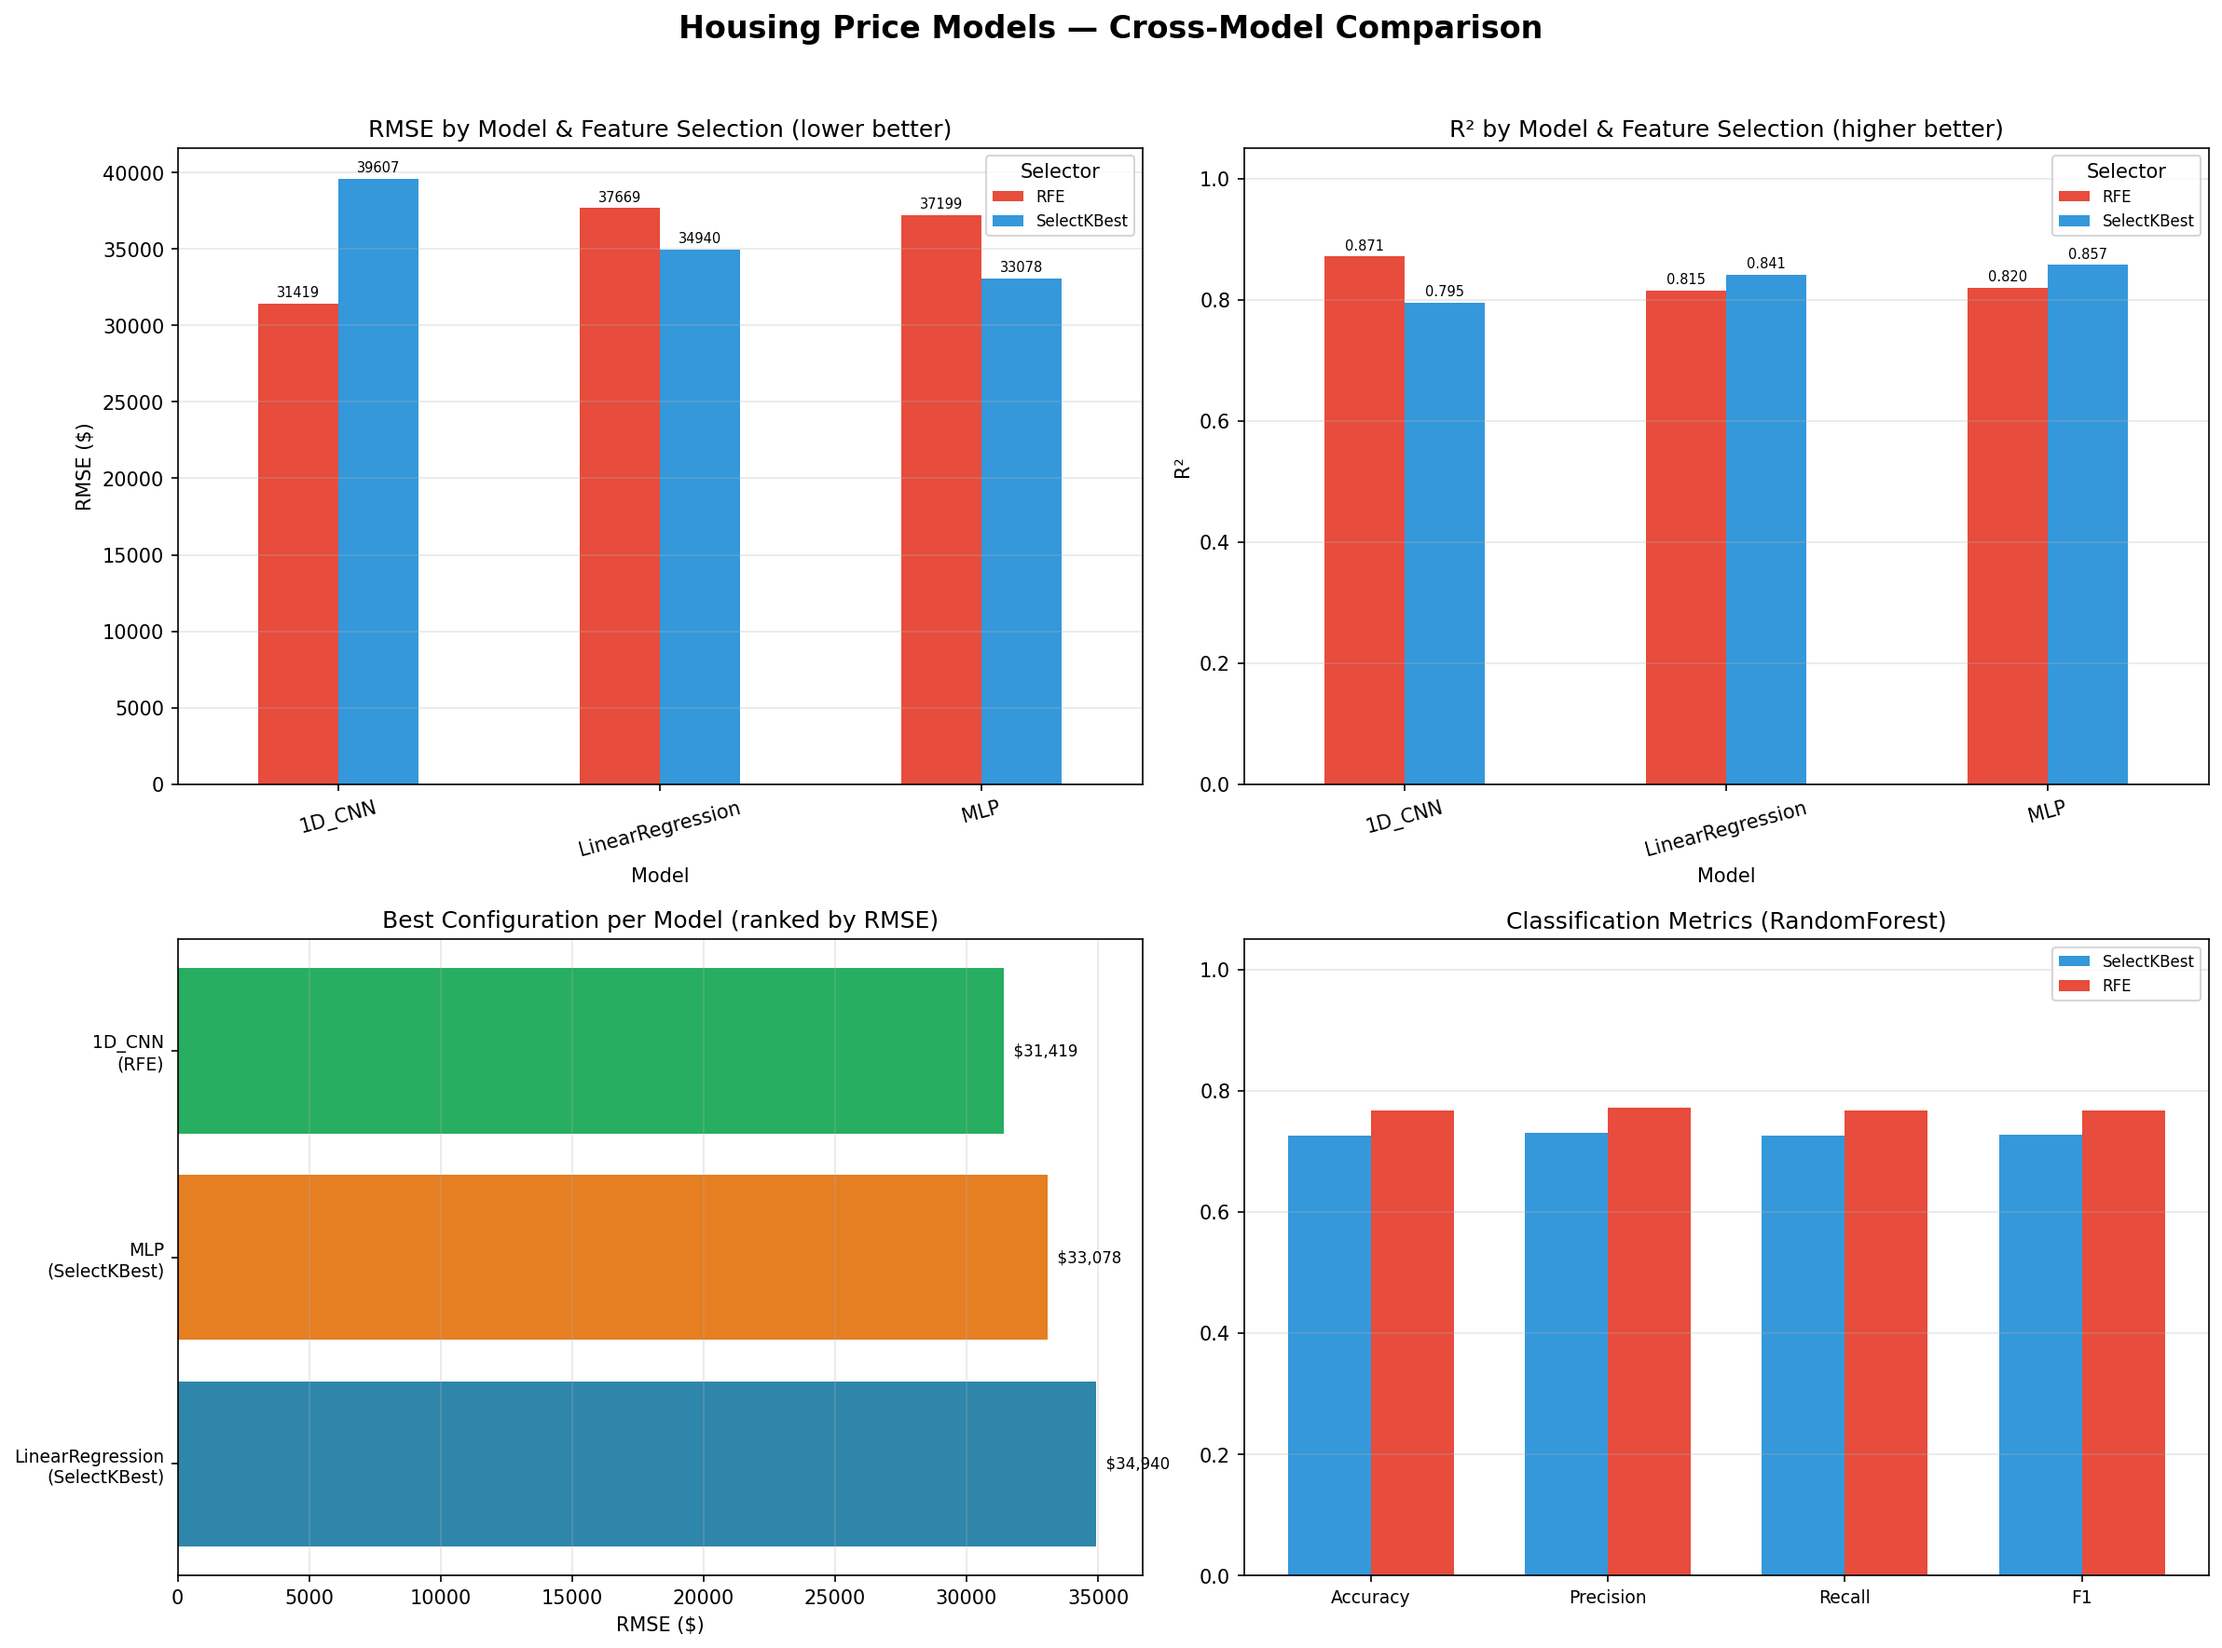
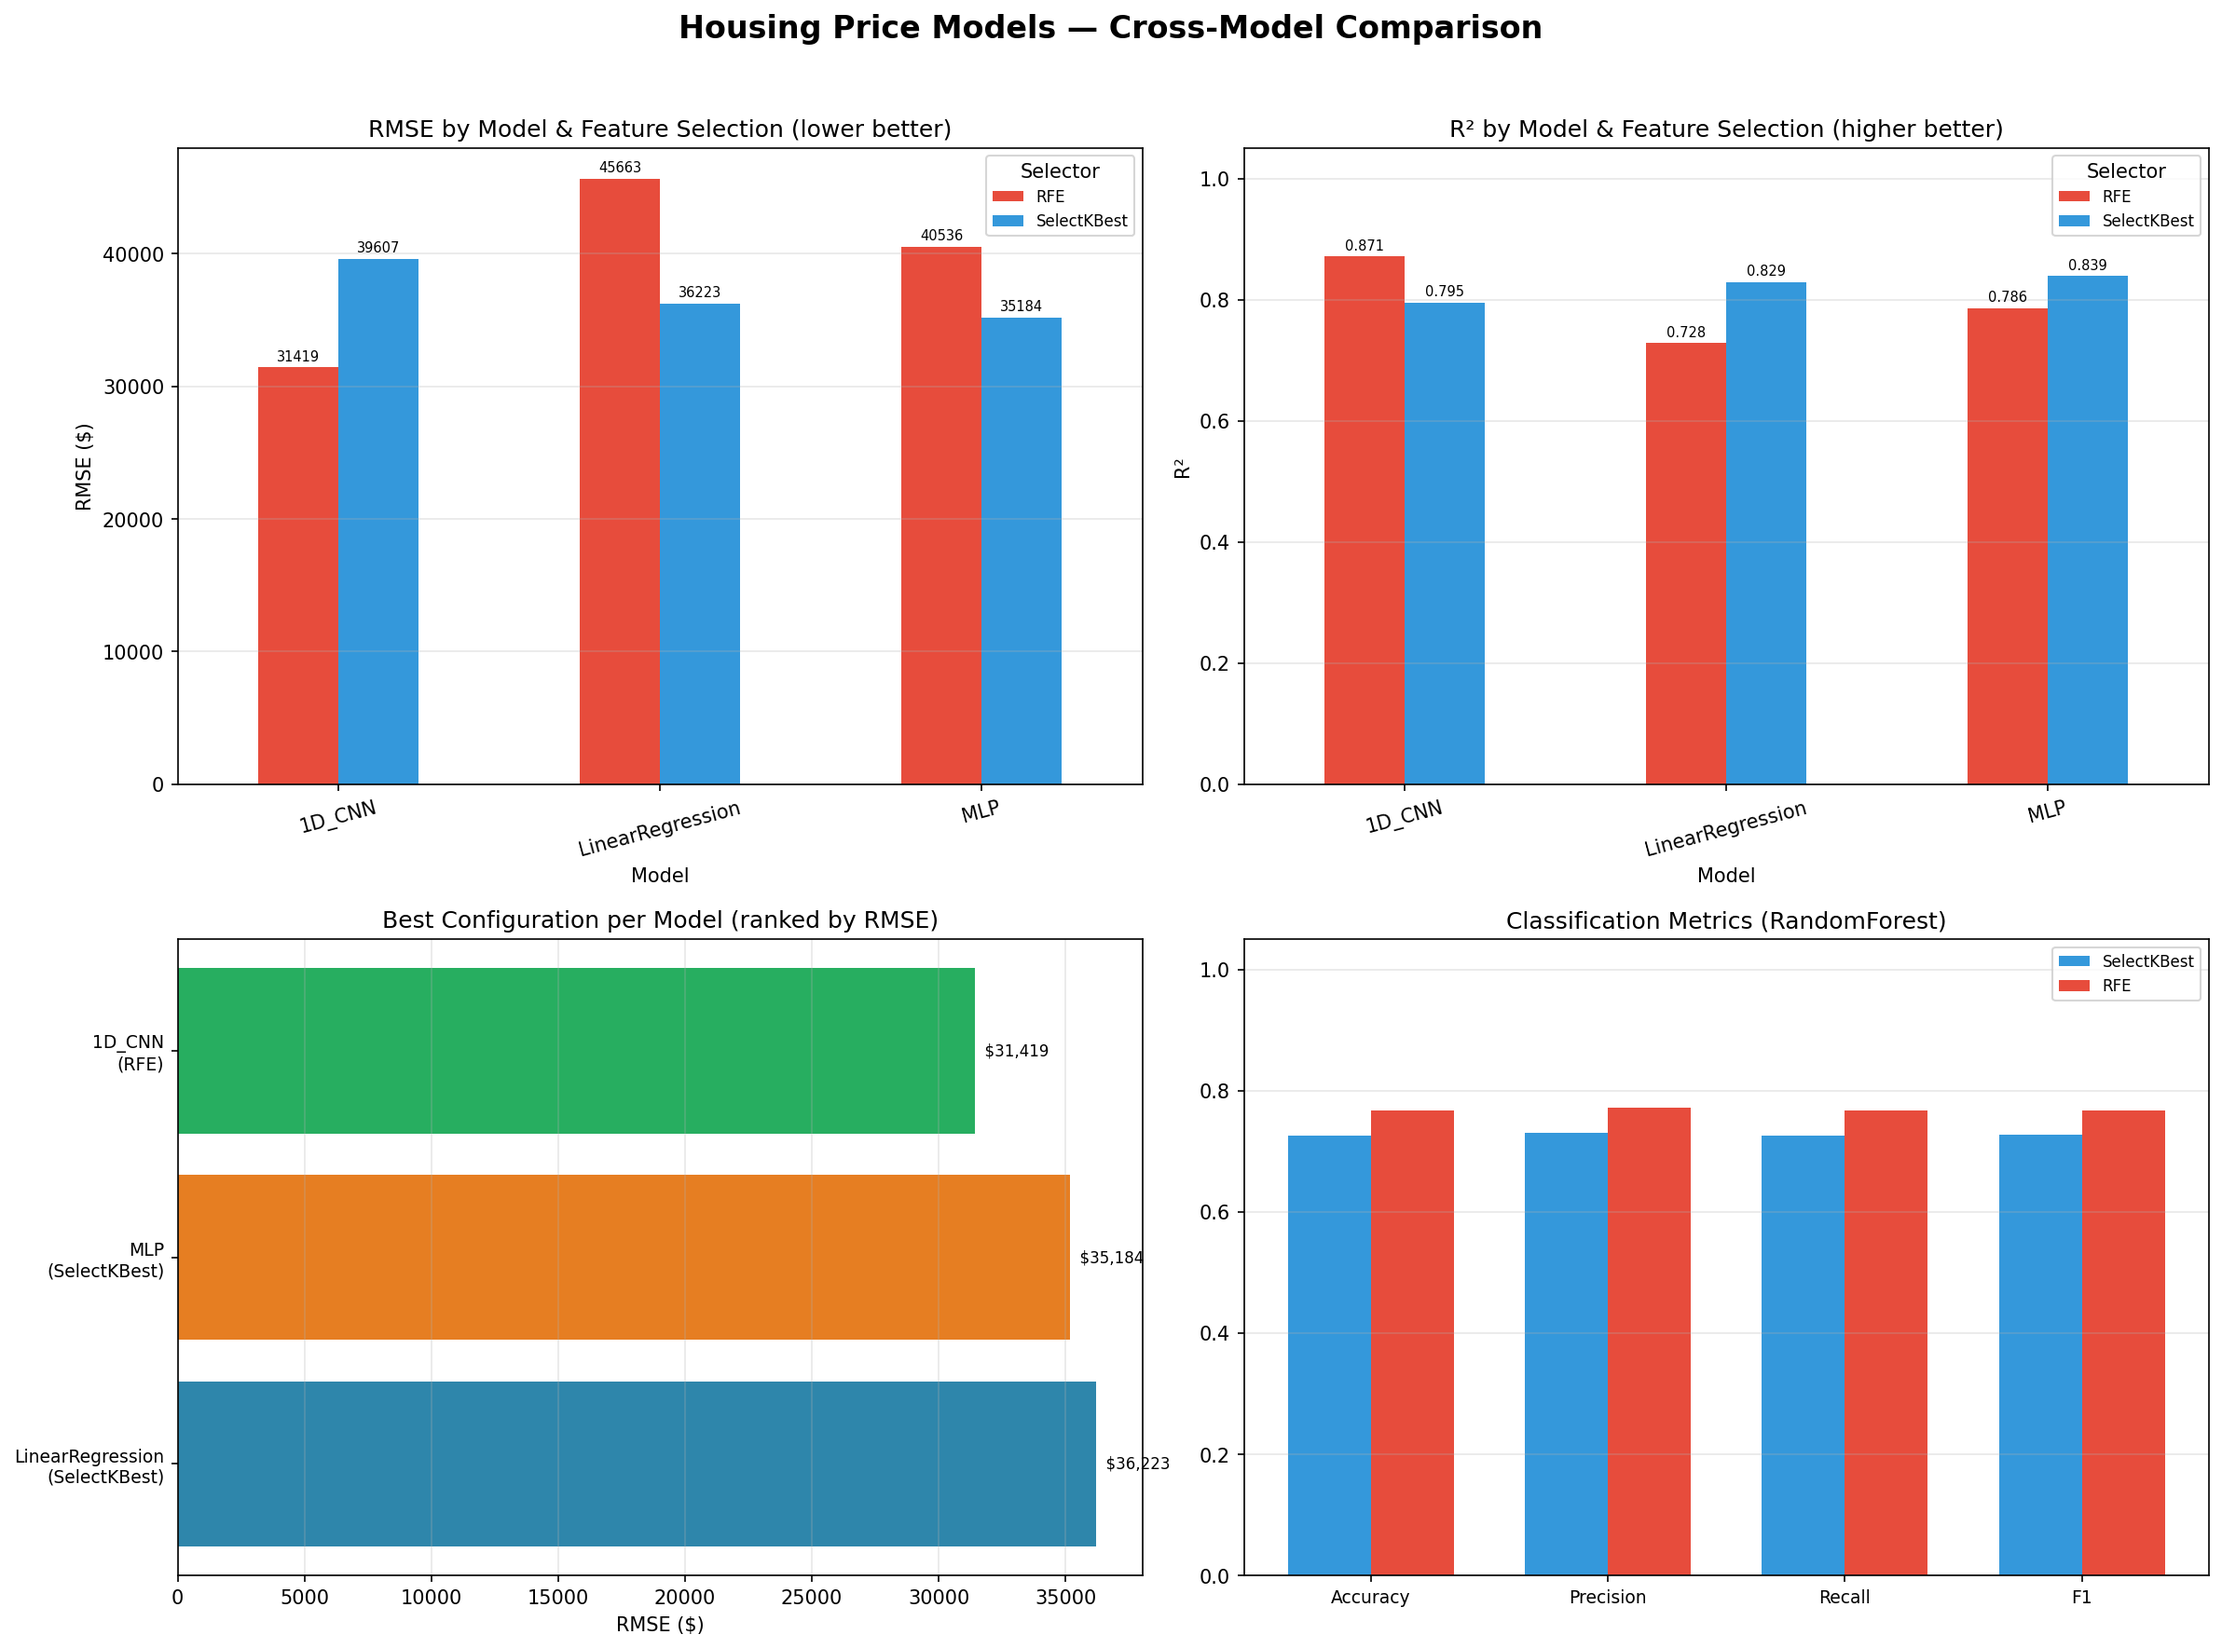
updated all models comparison file paths

diff --git a/compare_all_models.py b/compare_all_models.py
@@ -68,9 +68,9 @@ RANDOM_STATE = 42
 # Report file relative paths (under the reports root)
 REPORT_PATHS = {
     "LinearRegression": "regression_reports/regression_report.txt",
-    "MLP": "mlp_reports/deep_learning_MLP_report.txt",
+    "MLP": "mlp_reports/MLP_report.txt",
     "1D_CNN": "1d_cnn_reports/model_report.txt",
-    "Classifier": "random_forest_reports/classification_report.txt",
+    "Classifier": "random_forest_reports/random_forest_report.txt",
 }
 
 
